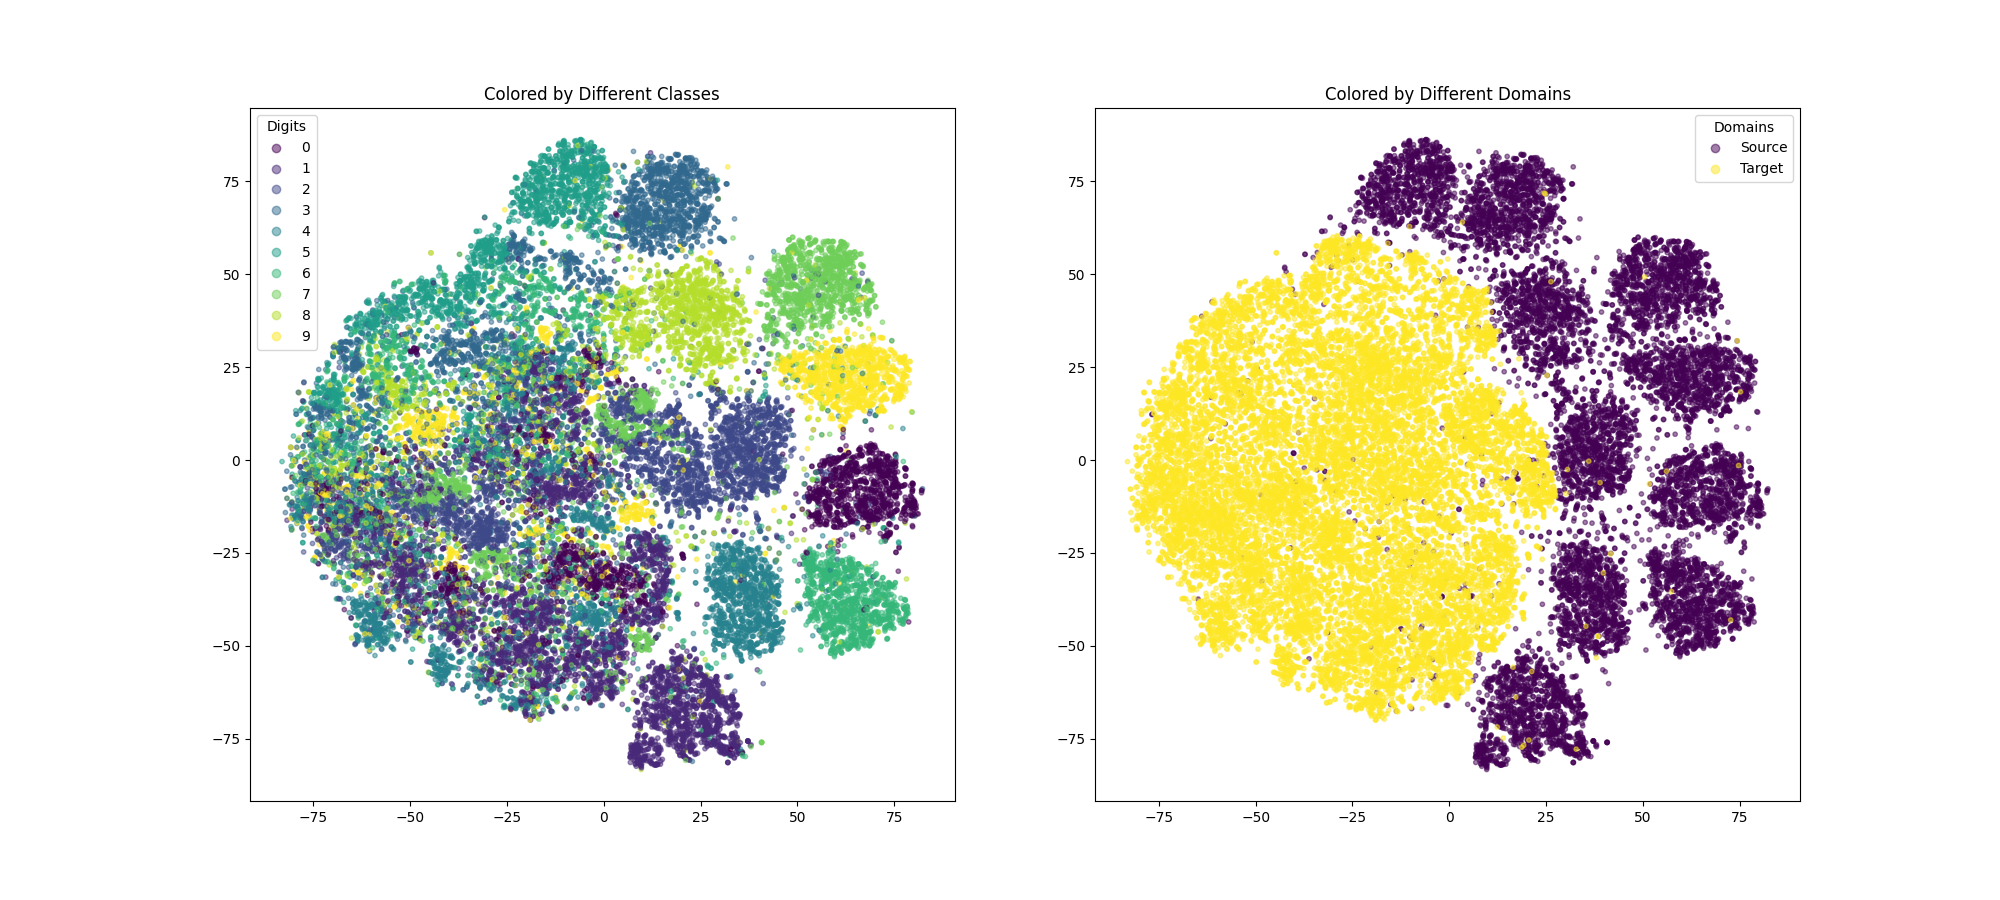
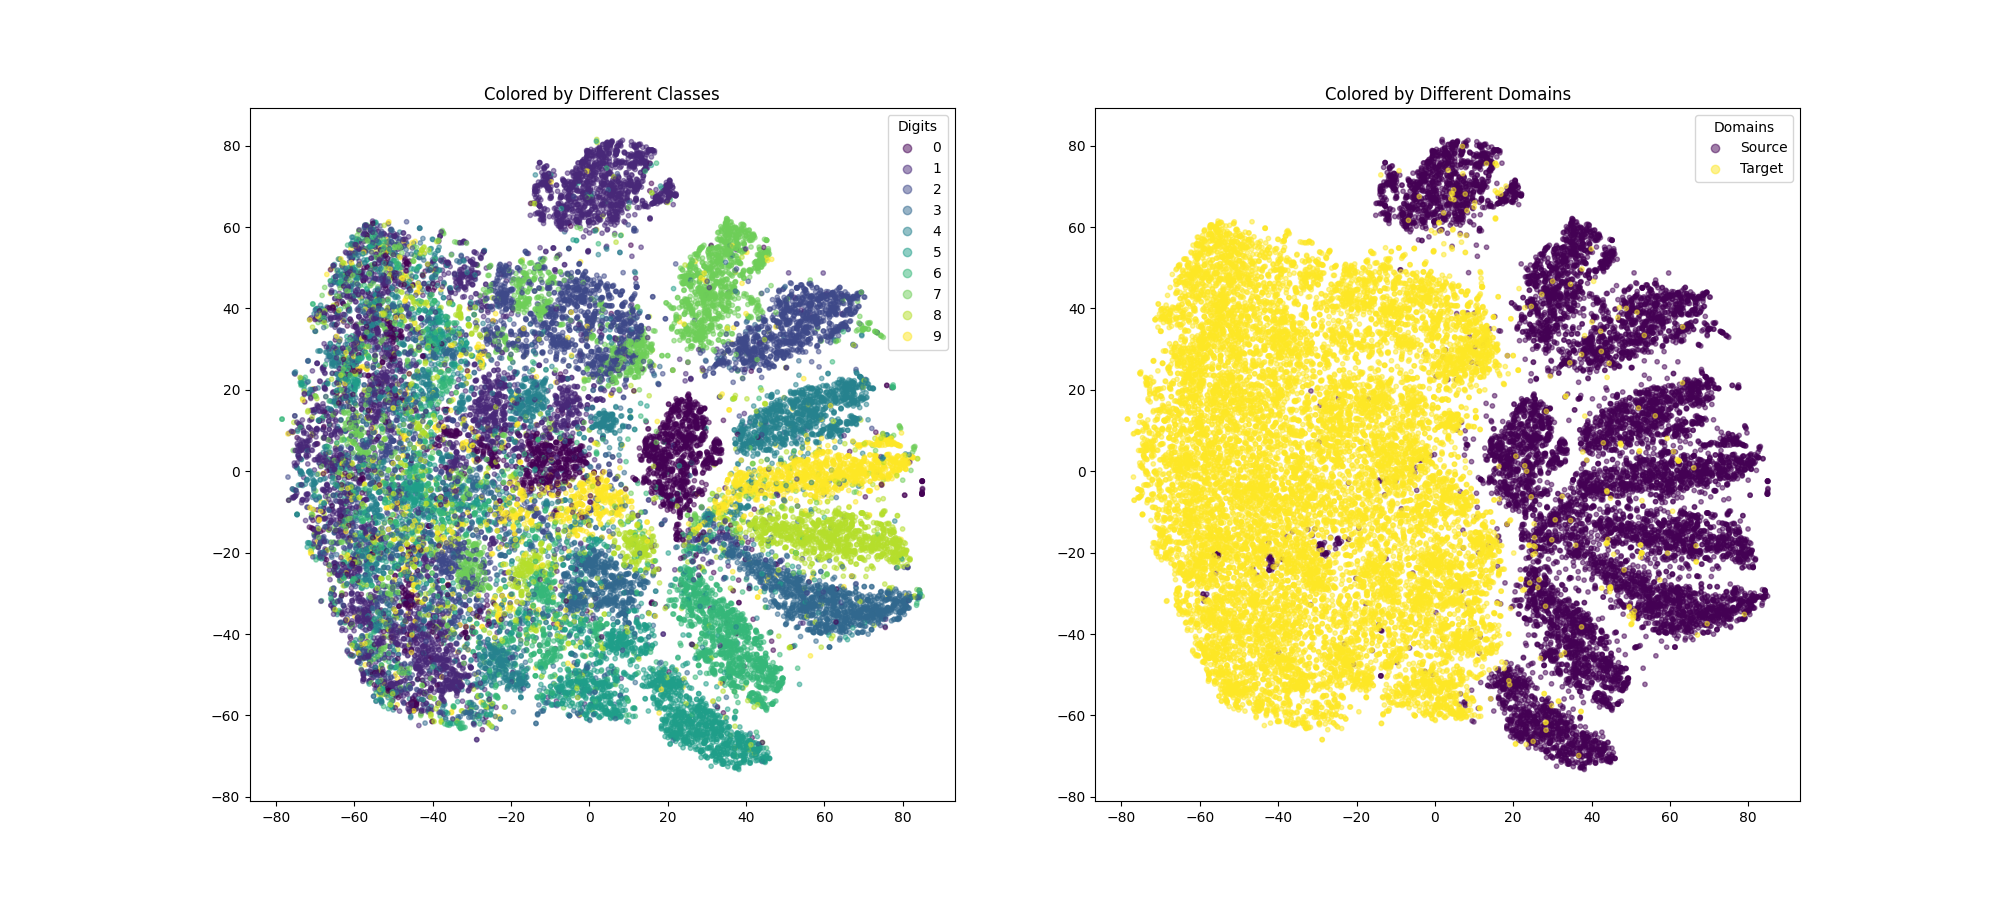
Update plot

diff --git a/HW2/P3_plot.py b/HW2/P3_plot.py
@@ -9,7 +9,6 @@ from torchvision import transforms
 
 from digit_dataloader import digit_dataset
 from P3_SVHN_model import FeatureExtractor as SF
-from P3_SVHN_model import LabelPredictor as SL
 from P3_USPS_model import FeatureExtractor as UF
 
 # load dataset
@@ -56,11 +55,8 @@ USPS_val_loader = DataLoader(
 # SVHN
 device = 'cuda'
 net = SF().to(device)
-L = SL().to(device)
 net.load_state_dict(torch.load('P3_SVHN_ckpt/best_F.pth', map_location=device))
-L.load_state_dict(torch.load('P3_SVHN_ckpt/best_L.pth', map_location=device))
 net.eval()
-L.eval()
 
 all_feature = []
 all_label = []
@@ -69,8 +65,6 @@ for x, y in source_val_loader:
     x = x.to(device)
     with torch.no_grad():
         f = net(x)
-        f = L.l_clf[0](f)
-        f = L.l_clf[1](f)
     all_feature.append(f.cpu().numpy())
     all_label.append(y.cpu().numpy())
     all_domains.append(np.zeros((len(x),), dtype=np.int32))
@@ -79,8 +73,6 @@ for x, y in SVHN_val_loader:
     x = x.to(device)
     with torch.no_grad():
         f = net(x)
-        f = L.l_clf[0](f)
-        f = L.l_clf[1](f)
     all_feature.append(f.cpu().numpy())
     all_label.append(y.cpu().numpy())
     all_domains.append(np.ones((len(x),), dtype=np.int32))
